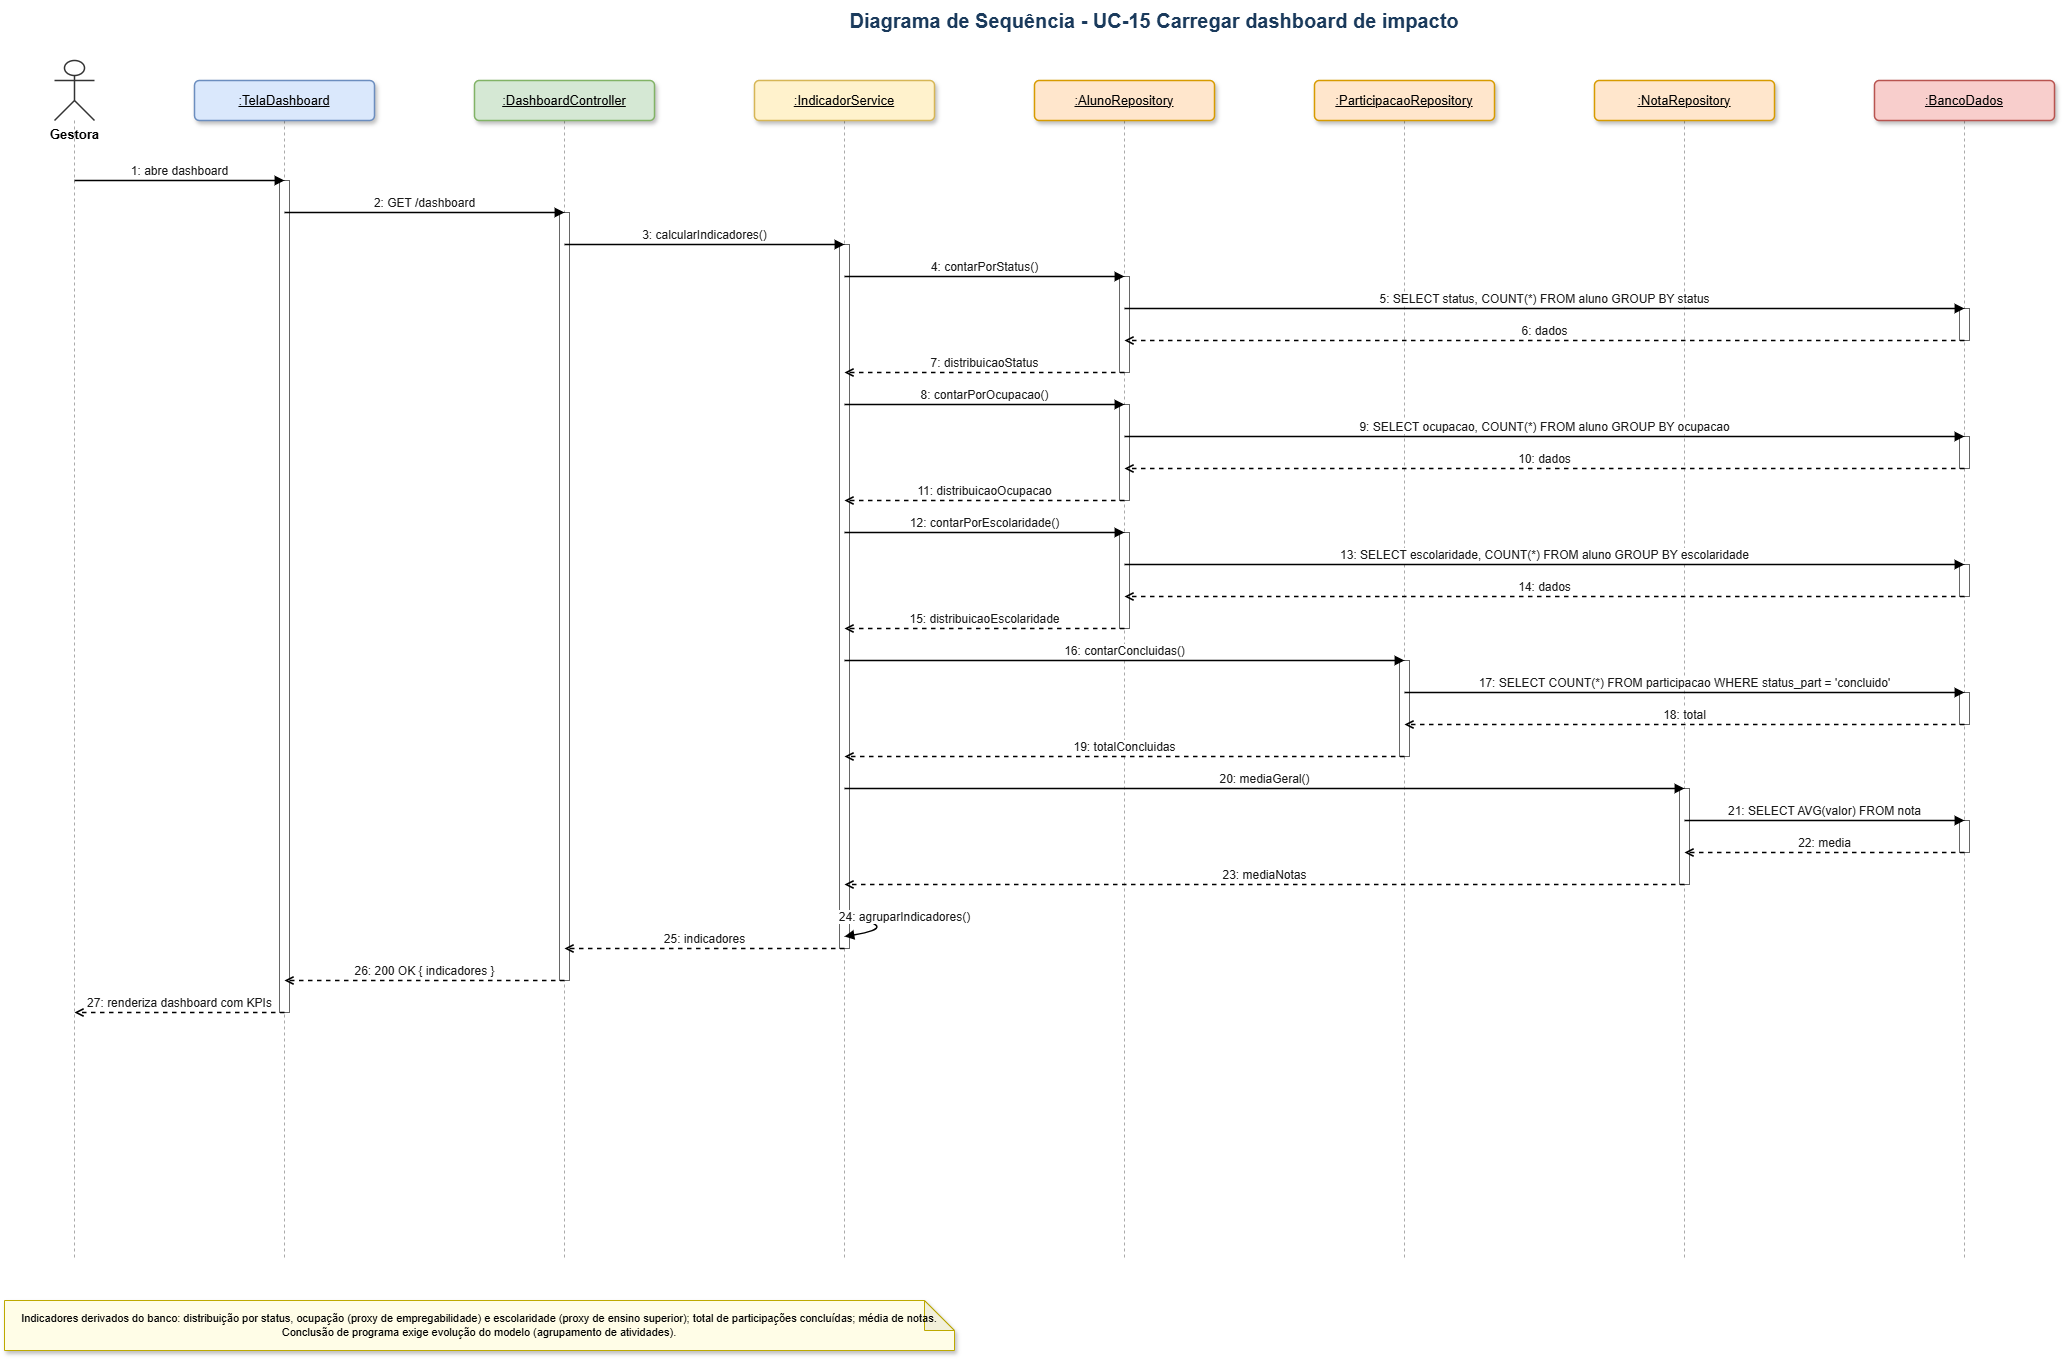
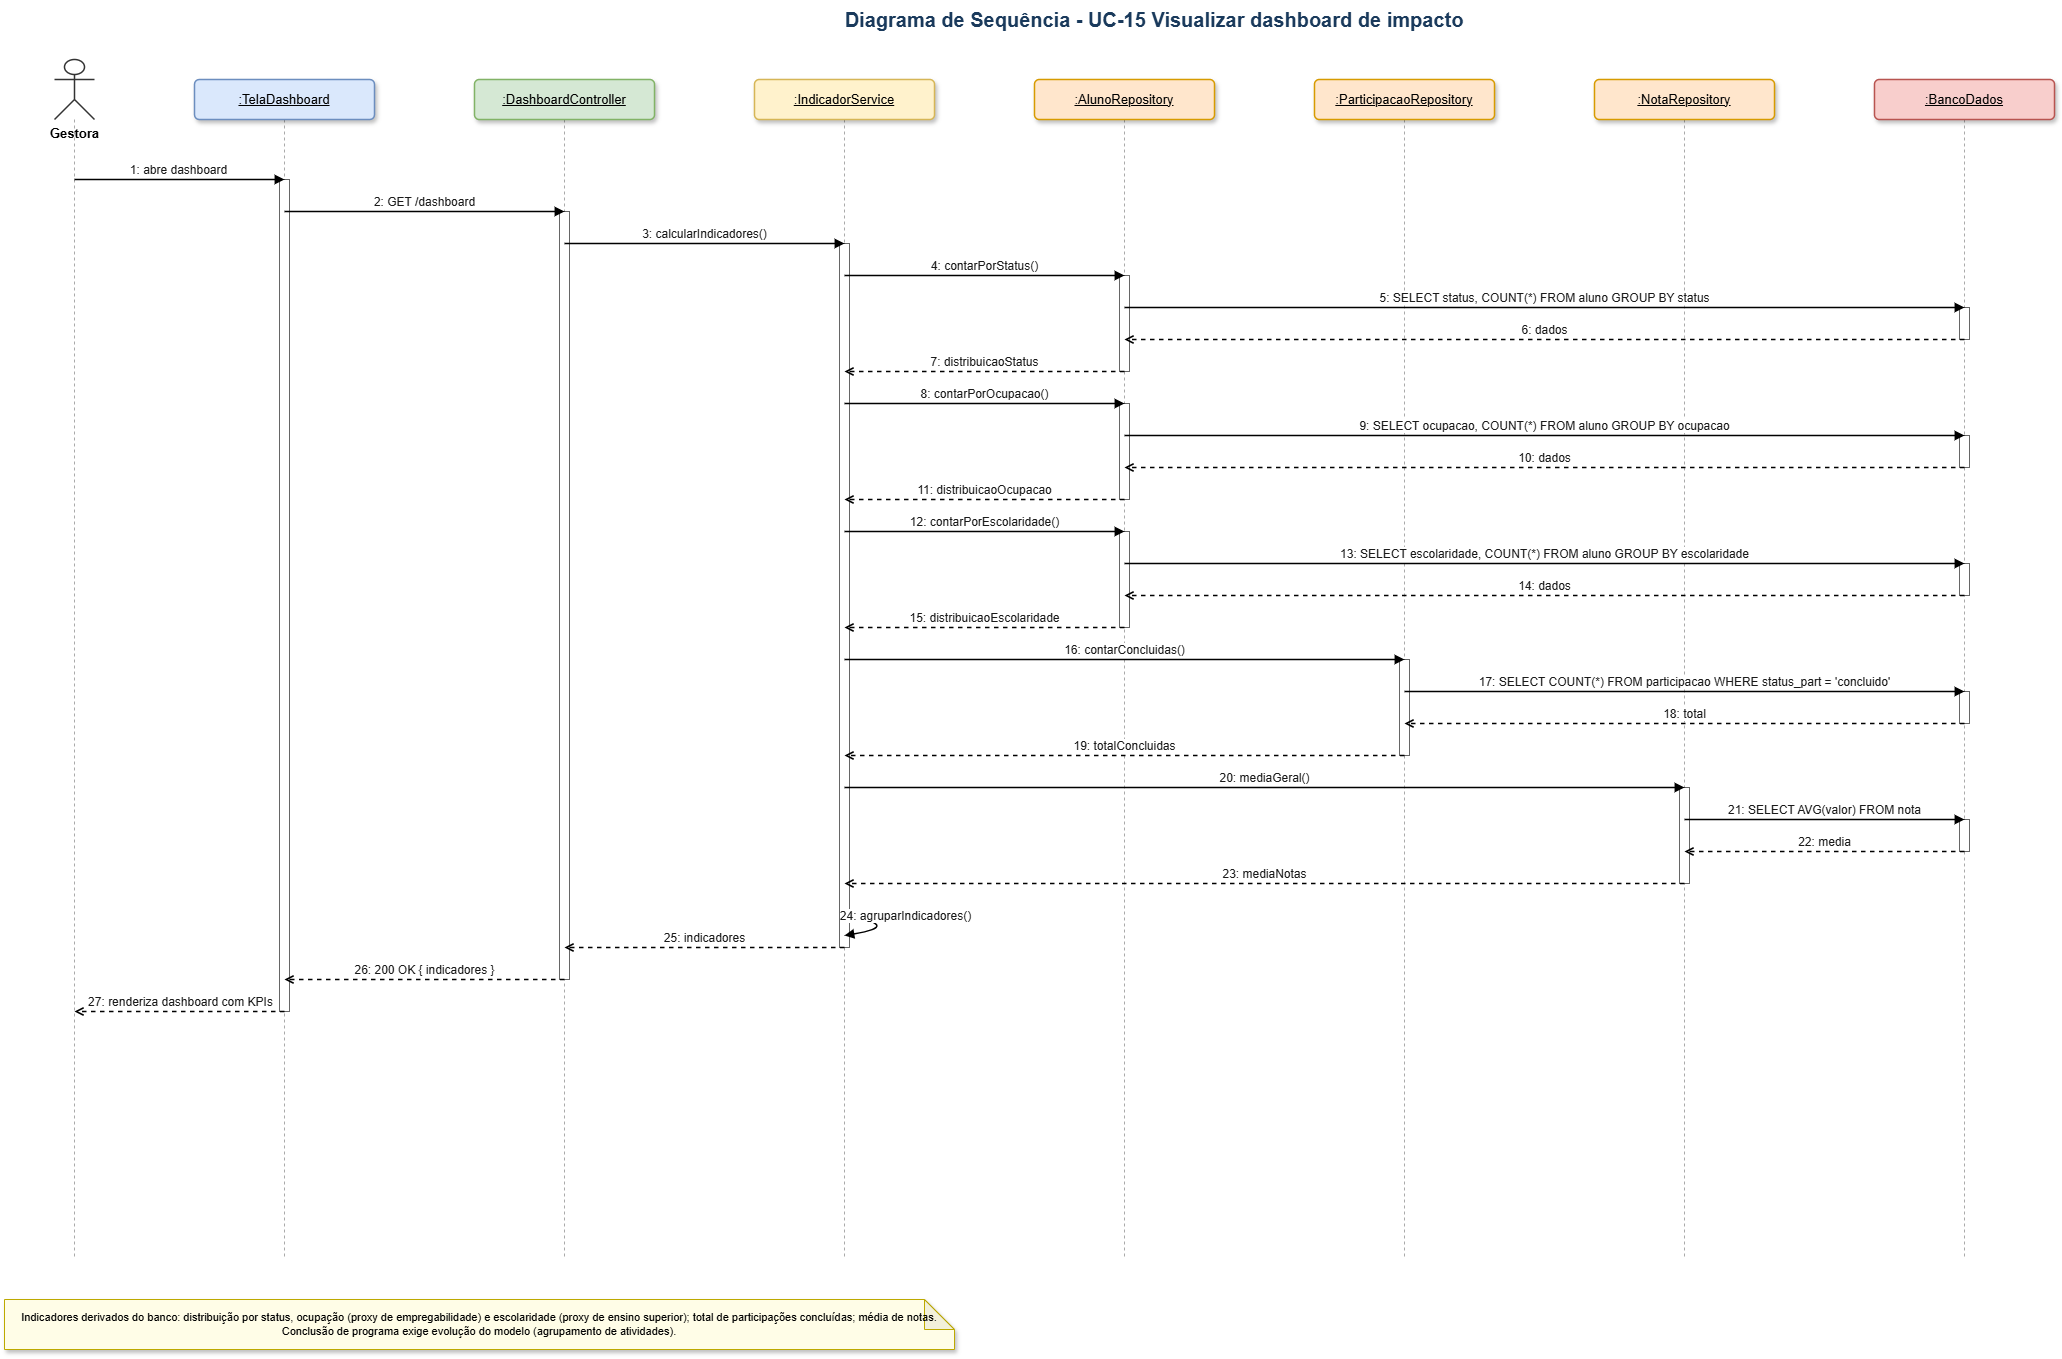
docs: atualiza diagrama UML

diff --git a/docs/wad.md b/docs/wad.md
@@ -692,24 +692,24 @@ No que tange aos registros de impacto e classificação, a classe Atividade arma
 
 ### 3.2.4. Diagrama de Sequência UML
 
-Esta seção apresenta cinco diagramas de sequência UML que descrevem como os principais fluxos do sistema Pulse Mais se desenrolam no tempo. Cada diagrama segue a mesma arquitetura em camadas (Tela, Controller, Service, Repository e Banco) e usa a notação UML padrão: linhas contínuas para mensagens síncronas, tracejadas para retornos, barras de ativação sobre as lifelines e fragmentos `alt` para fluxos alternativos. Os fluxos diagramados são UC-03 (Cadastrar Aluno), UC-06 (Visualizar Histórico), UC-08 (Registrar Participação), UC-15 (Dashboard de Impacto) e UC-22 (Registrar Histórico Psicológico), escolhidos por exercitarem todas as camadas e cobrirem os requisitos funcionais e regras de negócio mais críticos do MVP.
+Esta seção apresenta cinco diagramas de sequência UML que descrevem como os principais fluxos do sistema Pulse Mais se desenrolam no tempo. Cada diagrama segue a mesma arquitetura em camadas (Tela, Controller, Service, Repository e Banco) e usa a notação UML padrão: linhas contínuas para mensagens síncronas, tracejadas para retornos, barras de ativação sobre as lifelines e fragmentos `alt` para fluxos alternativos. Os fluxos diagramados são UC-03 (Manter cadastro do aluno), UC-06 (Visualizar histórico consolidado do aluno), UC-08 (Registrar participação em atividade), UC-15 (Visualizar dashboard de impacto) e UC-22 (Manter registros de saúde mental), escolhidos por exercitarem todas as camadas e cobrirem os requisitos funcionais e regras de negócio mais críticos do MVP.
 
-#### 3.2.4.1. UC-03 — Cadastrar Aluno
+#### 3.2.4.1. UC-03 — Manter cadastro do aluno
 
 <div align = "center">
-<sup>Figura 4: Diagrama de sequência do caso de uso Cadastrar Aluno.</sup>
+<sup>Figura 4: Diagrama de sequência do caso de uso Manter cadastro do aluno.</sup>
 <img src="../docs/assets/diagrama-sequencia-1.png">
 <sub>Fonte: Autoria própria (2026). </sub>
 <br><br>
 
-O fluxo começa quando o membro da equipe preenche o formulário de cadastro na `:TelaCadastroAluno` e submete os dados ao `:AlunoController`, que os repassa ao `:AlunoService`. O service realiza a validação dos campos obrigatórios (RN002), e em caso de sucesso aciona o `:AlunoRepository` para persistir o registro no banco. Após o INSERT, o service deriva o código identificador no formato `PM-AAAA-NNN` a partir do `id_aluno` e do ano de ingresso (RN001) e dispara a mensagem de boas-vindas pelo `:EmailService`. A confirmação retorna pelas camadas até a tela, exibindo o código gerado ao usuário. Caso a validação inicial falhe, o fluxo segue pelo ramo alternativo do fragmento `alt`, devolvendo um erro 400 sem chegar ao banco. Esse diagrama atende ao RF001 e cobre as RN001 e RN002.
+O fluxo começa quando o membro da equipe preenche o formulário de cadastro na `:TelaCadastroAluno` e submete os dados ao `:AlunoController`, que os repassa ao `:AlunoService`. O service realiza a validação dos campos obrigatórios (RN002), e em caso de sucesso aciona o `:AlunoRepository` para persistir o registro no banco. Após o INSERT, o service deriva o código identificador no formato `PM-AAAA-NNN` a partir do `id_aluno` e do ano de ingresso — operação detalhada como caso de uso próprio (UC-04, incluído via `«include»`), cobrindo a RN001 — e dispara a mensagem de boas-vindas pelo `:EmailService`. A confirmação retorna pelas camadas até a tela, exibindo o código gerado ao usuário. Caso a validação inicial falhe, o fluxo segue pelo ramo alternativo do fragmento `alt`, devolvendo um erro 400 sem chegar ao banco. Esse diagrama atende ao RF001 e cobre as RN001 e RN002.
 
 </div>
 
-#### 3.2.4.2. UC-06 — Visualizar Histórico Consolidado
+#### 3.2.4.2. UC-06 — Visualizar histórico consolidado do aluno
 
 <div align = "center">
-<sup>Figura 5: Diagrama de sequência do caso de uso Visualizar Histórico Consolidado.</sup>
+<sup>Figura 5: Diagrama de sequência do caso de uso Visualizar histórico consolidado do aluno.</sup>
 <img src="../docs/assets/diagrama-sequencia-2.png">
 <sub>Fonte: Autoria própria (2026). </sub>
 <br><br>
@@ -718,10 +718,10 @@ A gestora seleciona um aluno na lista e a `:TelaPerfilAluno` chama o `:AlunoCont
 
 </div>
 
-#### 3.2.4.3. UC-08 — Registrar Participação do Aluno em Atividade
+#### 3.2.4.3. UC-08 — Registrar participação em atividade
 
 <div align = "center">
-<sup>Figura 6: Diagrama de sequência do caso de uso Registrar Participação do Aluno em Atividade.</sup>
+<sup>Figura 6: Diagrama de sequência do caso de uso Registrar participação em atividade.</sup>
 <img src="../docs/assets/diagrama-sequencia-3.png">
 <sub>Fonte: Autoria própria (2026). </sub>
 <br><br>
@@ -730,10 +730,10 @@ O membro da equipe seleciona um aluno e uma atividade existente do catálogo, e 
 
 </div>
 
-#### 3.2.4.4. UC-15 — Carregar Dashboard de Impacto
+#### 3.2.4.4. UC-15 — Visualizar dashboard de impacto
 
 <div align = "center">
-<sup>Figura 7: Diagrama de sequência do caso de uso Carregar Dashboard de Impacto.</sup>
+<sup>Figura 7: Diagrama de sequência do caso de uso Visualizar dashboard de impacto.</sup>
 <img src="../docs/assets/diagrama-sequencia-4.png">
 <sub>Fonte: Autoria própria (2026). </sub>
 <br><br>
@@ -742,10 +742,10 @@ A gestora abre o dashboard e a `:TelaDashboard` chama o `:DashboardController`, 
 
 </div>
 
-#### 3.2.4.5. UC-22 — Registrar Observação em Histórico Psicológico
+#### 3.2.4.5. UC-22 — Manter registros de saúde mental
 
 <div align = "center">
-<sup>Figura 8: Diagrama de sequência do caso de uso Registrar Observação em Histórico Psicológico.</sup>
+<sup>Figura 8: Diagrama de sequência do caso de uso Manter registros de saúde mental.</sup>
 <img src="../docs/assets/diagrama-sequencia-5.png">
 <sub>Fonte: Autoria própria (2026). </sub>
 <br><br>
